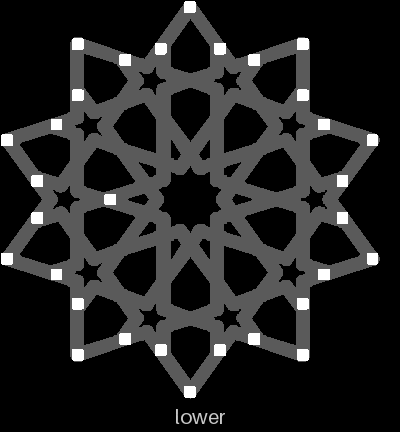
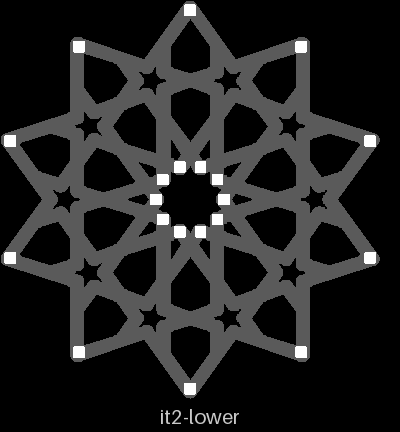
split-06: pins in two rings, round the middle star and on the outer points (#767)
Omar marked the pins picture "remove redC add blue": the twenty pins at
the small stars' notches are gone and ten now stand round the middle star.
Each pin stands on a filled disc (bikar #343), so the strap there has room
for a 1.2 mm pin. Re-sliced: 112 minutes, about 32 g, no warnings. The
recipe changed, so it is iteration 2 and needs a new yes.

Claude-Session: https://claude.ai/code/session_01BsHUAhF5DsA3qgXDY11oZz

diff --git a/docs/design/plates/split-06.md b/docs/design/plates/split-06.md
@@ -1,11 +1,11 @@
 ---
 plate: split-06
 recipe: split-06.yaml
-iteration: 1
+iteration: 2
 stage: proposed
 times_printed: 0
 runs: []
-answers: "Does the whole flange coaster, with split-05's set 3 settings (1.2 mm pins, 0.10 mm piece gap, the kite at 0.12) and no labels, close flush all the way round, hold together and keep its pieces snug, so it is a coaster to keep?"
+answers: "Does the whole flange coaster, with split-05's set 3 settings (1.2 mm pins, 0.10 mm piece gap, the kite at 0.12), its 20 pins in two rings (round the middle star and on the outer points) and no labels, close flush all the way round, hold together and keep its pieces snug, so it is a coaster to keep?"
 kind: new
 maturity: experiment
 bets: []
@@ -13,7 +13,7 @@ unblocks:
   - "D-100: lip or flange, which way a split coaster holds its loose pieces (with split-01)"
   - "the flange coaster as a production plate (D-098: one run kept as laid out)"
 minutes: 112
-grams: 31
+grams: 32
 bed_plates: 1
 risk: watch
 pictures:
@@ -23,23 +23,30 @@ pictures:
 
 # split-06 — the whole flange coaster, set 3's settings, no labels
 
-![The whole lower half of the flange coaster from above, grey, with its 31 pins of 1.2 mm as white squares round every outer edge and point, and none on the ring round the middle piece](split-06-media/pins.png)
+![The whole lower half of the flange coaster from above, grey, with its 20 pins of 1.2 mm as white squares: ten in a ring round the middle star, ten on the outer points, none at the small stars](split-06-media/pins.png)
 
 **In short.** On [split-05](split-05.md) you said "both are good", "2a one probably better", "2c
 one shakes a bit", then: "lets send a 2a print with the whole patterh, no labels, a production
 piece". This plate is that: the whole coaster at set 3's settings, with nothing carved into any
 piece. The plate is [`split-06.yaml`](split-06.yaml).
 
+**What changed since the first version (2026-10-23).** You said "i want more pins around central
+star" and "too many pins around border", then marked the pins picture: "remove redC add blue". The
+pins now stand in two rings you can see above: ten round the middle star (your blue ring) and ten
+on the outer points. The twenty at the small stars' notches (your red marks, taken in all ten
+repeats) are gone, and so is one stray pin at the left that held one repeat tighter than the rest.
+
 ## What it is
 
 The whole flange coaster at 112.5 mm across: a lower half, an upper half, and every loose piece,
 the middle, the kites, the hexes, the stars and the outer pieces.
 
-- **1.2 mm pins, at least 6 mm apart**: 31 of them, round every outer edge and point, as set 3.
-  The play round each pin stays 0.25 mm.
-- **The ring round the middle piece still has no pin.** No spot there has room for one. This is the
-  first print where that ring is closed all the way round, so it is the first that shows whether it
-  stays flush.
+- **20 pins of 1.2 mm, in two rings**: ten 9.6 mm out from the centre, in the middle star's inner
+  corners, and ten on the outer points. The play round each pin stays 0.25 mm, as set 3.
+- **Each pin stands on a filled disc.** The loose pieces' rims sit in a groove cut into the strap,
+  and round the middle star that groove left room for a pin under 0.75 mm. So the groove is filled in
+  a small disc round each pin, in both halves, and each loose piece's rim has a matching round notch
+  there so it still drops in. You picked this ("Fill the hidden groove at each pin").
 - **Piece gap 0.10 mm** for the middle, hexes, stars and outer pieces; **0.12 mm for the kites**,
   set 3's kite.
 - **No labels**: no carved ids, and no number on the lower half's bottom.
@@ -59,7 +66,8 @@ the middle, the kites, the hexes, the stars and the outer pieces.
 ## Why print it
 
 The slices settled the pin (1.2 mm) and the piece gap (0.10 mm). What is left only a whole coaster
-can show: whether the ring round the middle closes flush with no pin on it, whether the halves stay
+can show: whether the ring round the middle closes flush on its new pins, whether the notched
+pieces still sit, whether ten pins on the outside are enough, whether the halves stay
 flat across the full 112.5 mm, and how it goes together with every piece in. If you keep it as it
 comes off the bed, it is the first production plate of this coaster (D-098), and it can be printed
 again with no new yes (D-095).
@@ -72,14 +80,16 @@ the answer does not cover them.
 | Pieces | The question | What we expect, and why | What each answer changes |
 |---|---|---|---|
 | The whole coaster, put together | **Do:** Put every piece in the lower half, close the upper half on its pins and pinch it all the way round. Look at the edge and round the middle piece, and shake it. **Look for:** Is it a coaster you would keep as it is? If not, what is wrong? | Flush round the outside, as set 3. Round the middle, maybe a space. No shake. | Keep: it becomes the production plate. Not kept: what is wrong decides the next change. |
-| The ring round the middle piece | **Do:** Pinch the closed coaster round the middle piece. **Look for:** Flush, or a space? | Maybe a space: there is no pin there. | Flush: nothing to do. A space: the middle needs its own hold (a wider strap for a pin, or glue). |
+| The ring round the middle piece | **Do:** Pinch the closed coaster round the middle piece. **Look for:** Flush, or a space? | Flush: ten pins hold it now. | Flush: the ring stays. A space: the pins there need a tighter play, or glue. |
+| The outer edge | **Do:** Pinch the closed coaster between each pair of outer points. **Look for:** Flush, or a space? | Flush: a pin on every outer point. | Flush: ten is enough. A space: add a ring between the points. |
+| The middle piece and the stars, by the round notches | **Do:** Look at the rim of the middle piece and of each piece next to a pin, where a round notch is cut. Press each down. **Look for:** Does it sit flat and flush, or rock or stand proud? | Flat and flush: the notch is the disc's size plus the piece gap. | Flush: the bosses stay. Proud or rocking: the notch needs more room. |
 | The halves, laid flat | **Do:** Put the closed coaster on a table and press each side. **Look for:** Does it rock? | Flat. | Flat: nothing to do. Rocks: the halves bow over the full width; look at the bed face and the cooling. |
 | The kites | **Do:** Push each kite side to side with a fingertip. **Look for:** Snug, tight or wiggling? | Snug. | Snug: 0.12 stays. Tight: 0.13. Wiggles: 0.11. |
 
 ## Pictures
 
 Where the pins stand on the whole lower half, from above, at the top of this page: the half in grey,
-each 1.2 mm pin a white square. Drawn from the coaster file at the plate's settings by
+each 1.2 mm pin a white square, ten round the middle star and ten on the outer points. Drawn from the coaster file at the plate's settings by
 `tools/print_review.py pins`.
 
 The bed, from above, as the slice lays it out, each piece named. Drawn from the sliced plate by
@@ -89,12 +99,13 @@ The bed, from above, as the slice lays it out, each piece named. Drawn from the 
 
 ## Cost and risk
 
-One bed, 112 minutes, about 31 g (local slice, 2026-10-23, X2D preset and PLA Basic, from bikar #342), sliced for the gold Textured PEI plate (`--plate-type textured_plate`). The slicer gave no warnings, and all 7 items carry setting 8. One color, so no swaps.
+One bed, 112 minutes, about 32 g (local slice, 2026-10-24, X2D preset and PLA Basic, from bikar #343, the pin rings), sliced for the gold Textured PEI plate (`--plate-type textured_plate`). The slicer gave no warnings, and all 7 items carry setting 8. One color, so no swaps.
 
 **Risk: watch.** As on split-05: each band sticks out 0.8 mm with nothing under it and may droop,
 a look to judge. The kites and stars are small loose pieces that can lift or get knocked. The pins
 are 1.2 mm and stand on the lower half's cut face, so a pin that prints badly breaks off as a look,
-not a danger to the printer.
+not a danger to the printer. New on this version: the pin discs notch the rims of the pieces next to
+a pin, which no print has tried yet, so a notched piece might sit a little proud.
 
 ## Your call
 
@@ -115,3 +126,4 @@ Every yes or hold Omar gives this plate, one row each, oldest first (D-096). A t
 | Date | What happened | Where it is written |
 |---|---|---|
 | 2026-10-23 | proposed: after split-05's print, on Omar's words "lets send a 2a print with the whole patterh, no labels, a production piece"; set 3's 1.2 mm pins, the 0.10 mm piece gap, the kite at 0.12 | this page |
+| 2026-10-24 | sliced: iteration 2, 20 pins in two rings with a filled groove at each (bikar #343), on Omar's "remove redC add blue"; 112 minutes, about 32 g, no warnings | this page |

diff --git a/docs/design/plates/README.md b/docs/design/plates/README.md
@@ -34,7 +34,7 @@ Written by `python3 .claude/gates/plates_gate.py --write` from the plate pages a
 | 12 | [swatch-10204](swatch-10204.md) | waiting | 1 | 0.4 | 2.82 | ok | What does PLA Basic Hot Pink (10204) really look like printed: its top, its sheen and its bed face, on a chip and on our own straps? |
 | 13 | [swatch-10501](swatch-10501.md) | waiting | 1 | 0.4 | 2.82 | ok | What does PLA Basic Bambu Green (10501) really look like printed: its top, its sheen and its bed face, on a chip and on our own straps? |
 | 14 | [swatch-10101](swatch-10101.md) | waiting | 1 | 0.4 | 2.82 | ok | What does PLA Basic Black (10101) really look like printed: its top, its sheen and its bed face, on a chip and on our own straps? |
-| 15 | [split-06](split-06.md) | proposed | 6 | 2.2 | 2.76 | watch | Does the whole flange coaster, with split-05's set 3 settings (1.2 mm pins, 0.10 mm piece gap, the kite at 0.12) and no labels, close flush all the way round, hold together and keep its pieces snug, so it is a coaster to keep? |
+| 15 | [split-06](split-06.md) | proposed | 6 | 2.2 | 2.74 | watch | Does the whole flange coaster, with split-05's set 3 settings (1.2 mm pins, 0.10 mm piece gap, the kite at 0.12), its 20 pins in two rings (round the middle star and on the outer points) and no labels, close flush all the way round, hold together and keep its pieces snug, so it is a coaster to keep? |
 | 16 | [swatch-13903](swatch-13903.md) | waiting | 1 | 0.4 | 2.68 | ok | What does PLA Silk Neon City (13903) really look like printed: its top, its sheen and its bed face, on a chip and on our own straps? |
 | 17 | [sheets-01](sheets-01.md) | waiting | 6 | 2.3 | 2.65 | ok | Do the 0.4 mm steps on today's coaster edges show in the hand, and which top (round 1 or the full dome) looks right? |
 | 18 | [minis-06](minis-06.md) | waiting | 8 | 3.8 | 2.11 | ok | How thin can the dovetail band go, and does the new slot fix minis-04's tight pegs? |

diff --git a/.claude/skills/place-pins/SKILL.md b/.claude/skills/place-pins/SKILL.md
@@ -40,10 +40,14 @@ coaster) without bosses, low in the lower half (0.5 mm) with them.
 3. **Ask Omar from the picture.** Send it (SendUserFile) with one free-text question: which rings
    to keep, drop or add. He may mark the picture instead; read his marks against the letters.
    When he marks a few pins, take it as their whole ring in every repeat and say so.
-4. **Write the rings into the plate.** Each kept ring becomes an entry in the coaster file's pin
-   rings param (radius, count, turn), with bosses on when a ring stands where the groove was. The
-   kernel snaps each pin to the roomiest point near its spot and refuses a spot with no room, so a
-   refusal means the ring was read wrong: draw the map again, do not loosen the wall.
+4. **Write the rings into the plate.** Each kept ring is three params on every item of the plate:
+   `stud_ringN` (radius, mm), `stud_ringN_n` (pins) and `stud_ringN_turn` (degrees from +x of the
+   first pin), N = 1 to 3; add `stud_boss: 1` when a ring stands where the groove was. Any ring
+   turns the automatic pick off, so a pin the old layout had and you want kept must be in a ring
+   too. The kernel snaps each pin to the roomiest point within 1.5 mm and refuses a pin with no
+   room, naming the ring and the angle: draw the map again, do not loosen the wall. `--check` on the
+   render lists every pin's radius and angle, so read the old layout's rings off it. split-06 was
+   the first ([the plate](../../../docs/design/plates/split-06.md); bikar's pin rings and bosses).
 5. **Check it.** Render the lower half again and draw the plate's pins picture
    (`python3 tools/print_review.py pins <png> <lower.stl>`). The pins must stand where Omar's
    marks are, and only there. Then slice the plate and update its page: pin count, where they
